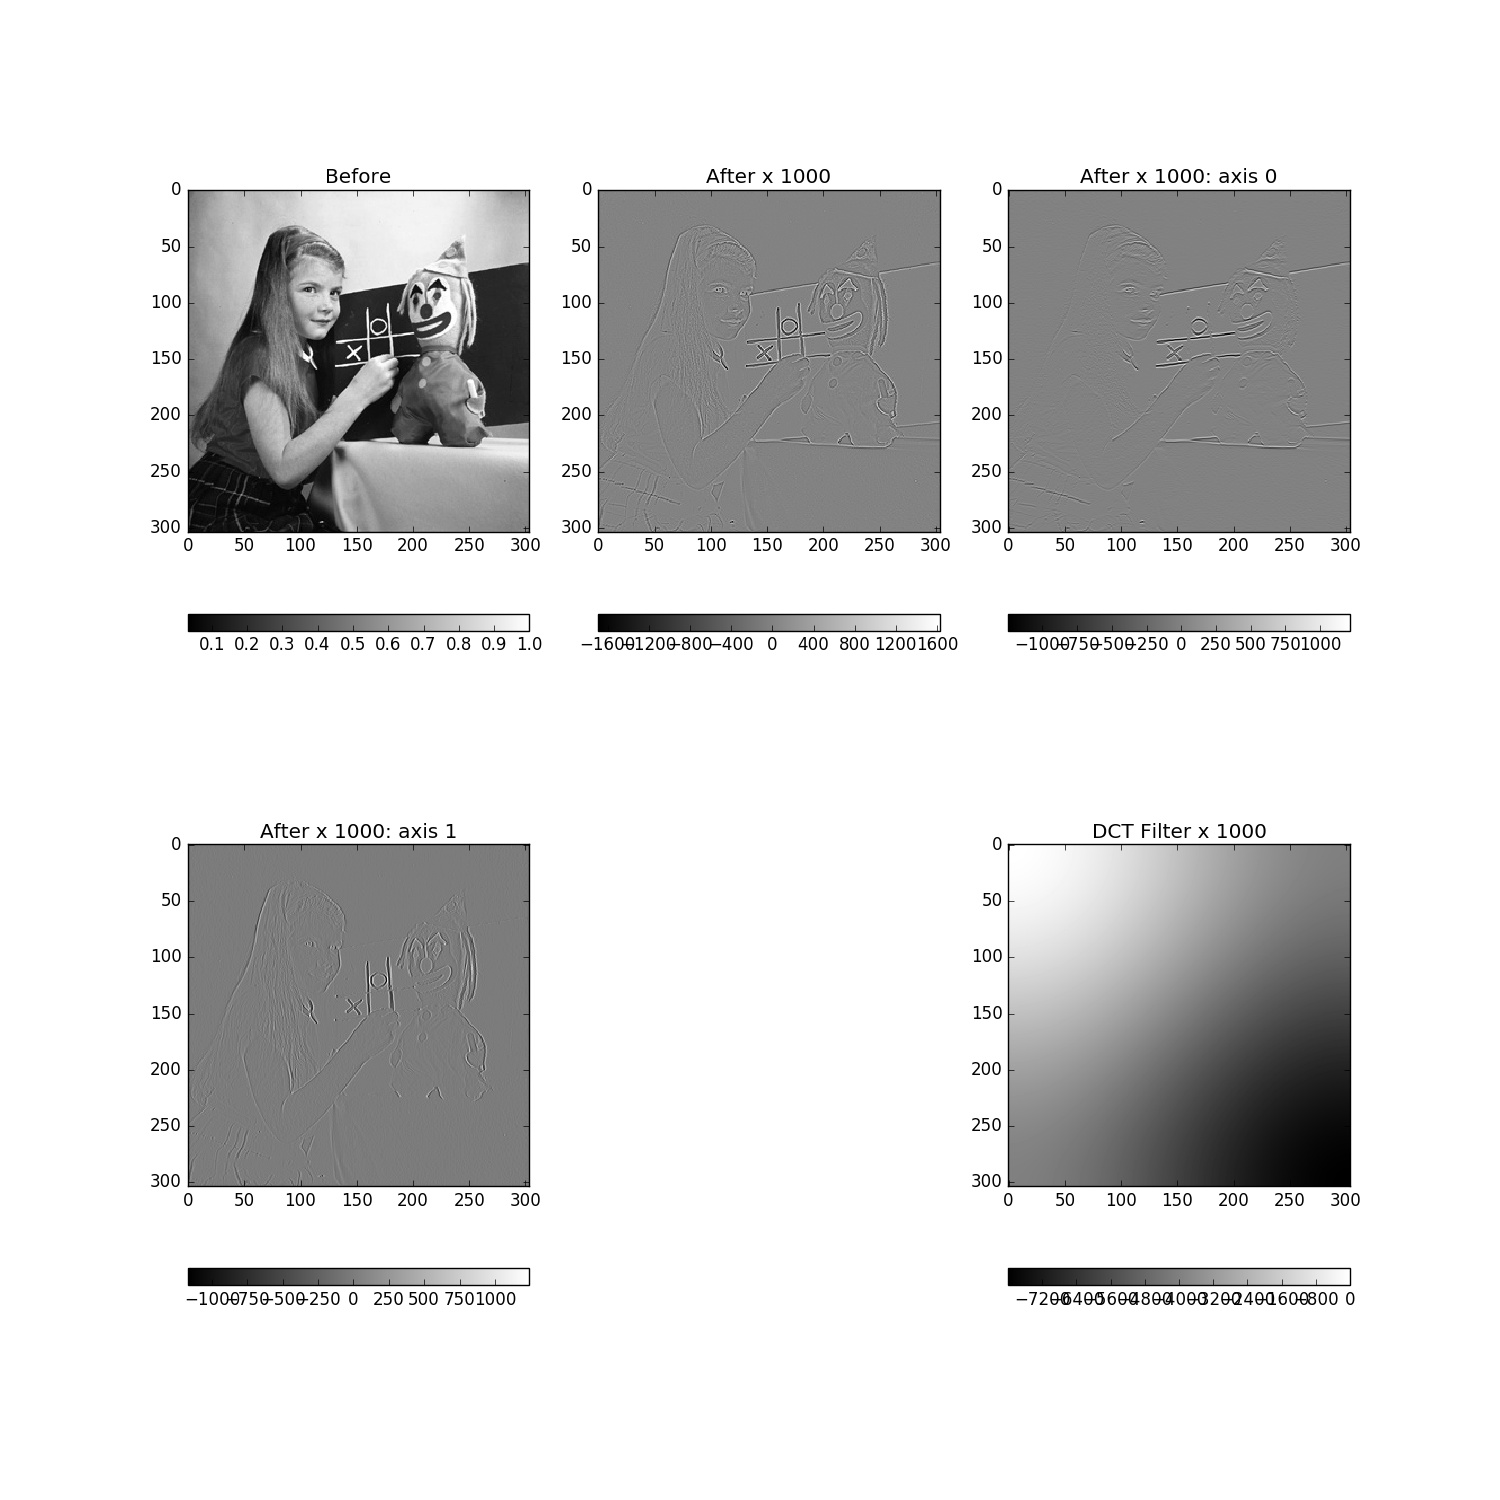
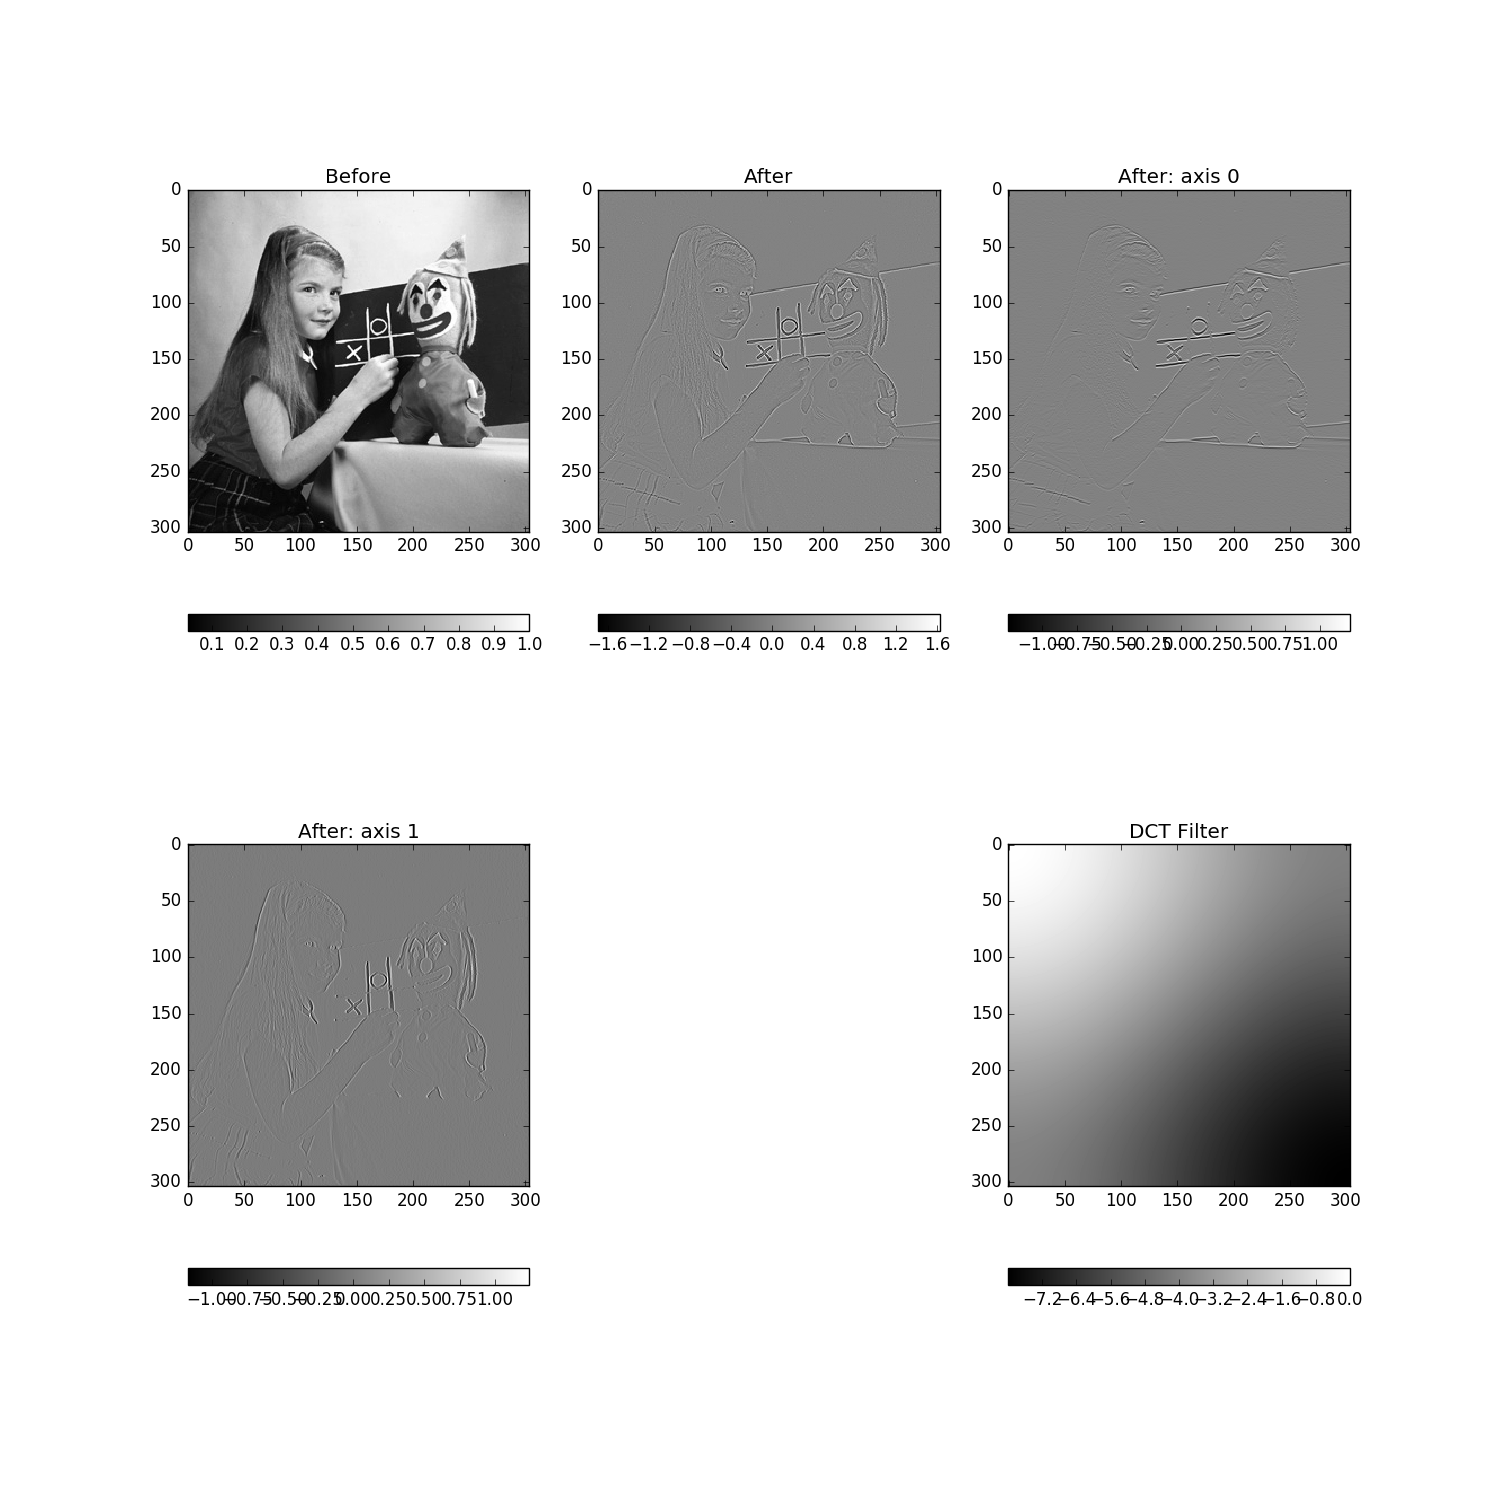
updated from fastDiff

diff --git a/fastDiff.py b/fastDiff.py
@@ -147,23 +147,23 @@ def case2():
   plt.colorbar(orientation ='horizontal')
 
   a=fig.add_subplot(232)
-  b=plt.imshow(dtdy*1000,interpolation='nearest',cmap='gray')
-  a.set_title('After x 1000')
+  b=plt.imshow(dtdy,interpolation='nearest',cmap='gray')
+  a.set_title('After')
   plt.colorbar(orientation ='horizontal',use_gridspec=True)
 
   a=fig.add_subplot(233)
-  plt.imshow(dtdy1*1000,interpolation='nearest',cmap='gray')
-  a.set_title('After x 1000: axis 0')
+  plt.imshow(dtdy1,interpolation='nearest',cmap='gray')
+  a.set_title('After: axis 0')
   plt.colorbar(orientation ='horizontal')
 
   a=fig.add_subplot(234)
-  plt.imshow(dtdy2*1000,interpolation='nearest',cmap='gray')
-  a.set_title('After x 1000: axis 1')
+  plt.imshow(dtdy2,interpolation='nearest',cmap='gray')
+  a.set_title('After: axis 1')
   plt.colorbar(orientation ='horizontal')
 
   a=fig.add_subplot(236) 
-  a.set_title('DCT Filter x 1000')
-  imgplot = plt.imshow(dtd.dctFilter*1000,interpolation='nearest',cmap='gray')
+  a.set_title('DCT Filter')
+  imgplot = plt.imshow(dtd.dctFilter,interpolation='nearest',cmap='gray')
   plt.colorbar(orientation ='horizontal')
   plt.show()
   plt.savefig('images/case2.png')
